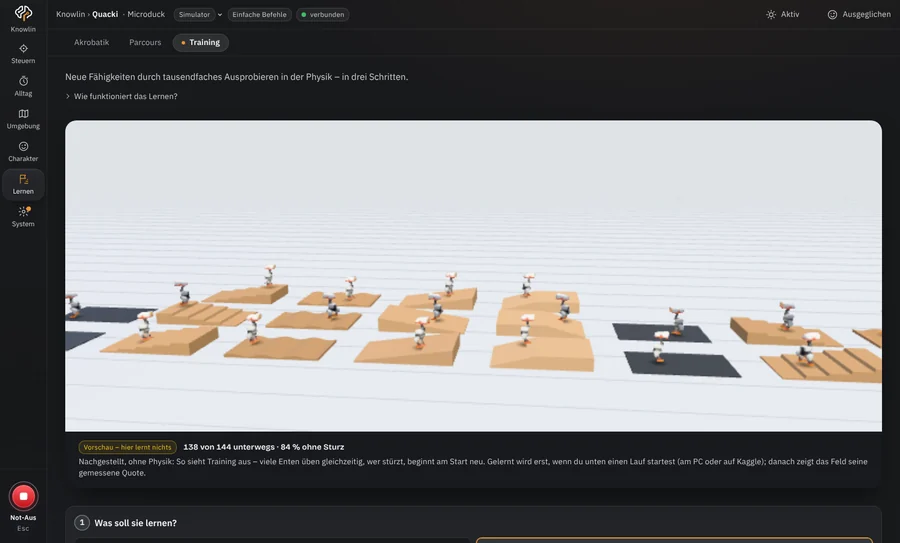
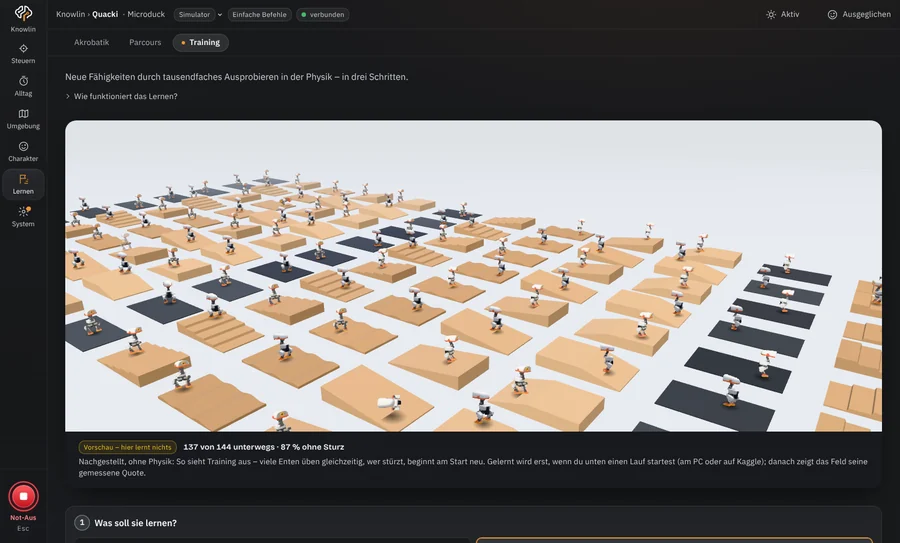
Website: Bild bei „Lernen“ mit festem Blick schräg übers volle Trainingsfeld
Claude-Session: https://claude.ai/code/session_01RXr8nab8ahXTbdJ84r3UbR

Changed region(s): [[0.0622, 0.3241, 0.9956, 0.7956], [0.0, 0.884, 0.0622, 0.9724]]

diff --git a/duckpilot/server/static/trainingsfeld.js b/duckpilot/server/static/trainingsfeld.js
@@ -312,8 +312,8 @@ export function trainingsfeld(canvas) {
   let sichtbarAnzahl = ANZAHL;
   // Sparen auf schwacher Grafik: Bilder dauern im Mittel länger als 45 ms → weniger Bildpunkte, dann nur die vordere
   // Hälfte, dann ein Viertel der Enten (die Zahlen zählen weiter alle)
-  function sparen() {
-    stufe++;
+  function sparen(neu = stufe + 1) {
+    stufe = neu;
     sichtbarAnzahl = stufe >= 3 ? Math.ceil(ANZAHL / 4) : stufe >= 2 ? Math.ceil(ANZAHL / 2) : ANZAHL;
     for (const m of [ente && ente.netz, schatten]) if (m) m.count = sichtbarAnzahl;
     const felder = halle.userData.felder;                // kein leeres Übungsfeld: nur so viele Felder wie Enten
@@ -401,6 +401,13 @@ export function trainingsfeld(canvas) {
   // Auftakt wie im Video von NVIDIA zur Microduck: erst nah an einer Ente, dann zieht die Kamera auf das ganze Feld auf
   const blick = new THREE.Vector3(), ziel = new THREE.Vector3();
   function kameraStellen(zeit) {
+    // feste Kamera für Website und Doku (seit 0.38.56, „nimm lieber das Bild bei Lernen“): "x,y,z,zielX,zielY,zielZ"
+    const fest = (canvas.dataset.blick || '').split(',').map(Number);
+    if (fest.length === 6 && fest.every(Number.isFinite)) {
+      kamera.position.set(fest[0], fest[1], fest[2]);
+      kamera.lookAt(fest[3], fest[4], fest[5]);
+      return;
+    }
     const t = ruhig ? 0 : zeit / 1000;
     const a = 0.42 + Math.sin(t / 14) * 0.22;
     const schmal = kamera.aspect < 1.4;
@@ -481,6 +488,11 @@ export function trainingsfeld(canvas) {
   }
 
   canvas.feldInfo = () => ({ ...renderer.info.render, anzahl: ANZAHL, bilder: ente ? 1 : 0 });   // für Prüfungen
+  // Website-Bilder (seit 0.38.56): alle Enten, feste Kamera aus data-blick, jetzt zeichnen – headless steht die Schleife
+  canvas.feldZeichnen = () => {
+    if (stufe) { sparen(0); canvas.dataset.sparen = 'nie'; }
+    groesse(); kameraStellen(performance.now() - t0); renderer.render(scene, kamera);
+  };
   let modellSchluessel = '';
   canvas.dataset.figur = 'einfach';                        // für den Abnahmetest: welche Figur steht im Feld
   return {

diff --git a/tools/website_bilder.py b/tools/website_bilder.py
@@ -278,6 +278,9 @@ def szene_akrobatik(page, base, sprache):
     page.wait_for_timeout(3000)
 
 
+TRAINING_BLICK = "3.6,2.6,5.2,-0.6,0,-0.6"    # Kamera x,y,z und Blickziel x,y,z im Trainingsfeld (Meter)
+
+
 def szene_training(page, base, sprache):
     A.einstellen(page, {"modul": "duckpilot", "sprache": sprache})
     A.oeffnen(page, base)
@@ -293,6 +296,11 @@ def szene_training(page, base, sprache):
     page.wait_for_function("() => /^original/.test(document.getElementById('tr-feld-canvas')?.dataset.figur || '')",
                            timeout=420000)
     page.wait_for_timeout(8000)
+    # seit 0.38.56 („nimm mal lieber das Bild bei Lernen“): fester Blick schräg von oben übers volle Feld – Rampen vorn,
+    # Matten rechts – statt des Moments der gleitenden Keynote-Kamera, die headless weit draußen und flach stand
+    page.evaluate(f"() => {{ const c = document.getElementById('tr-feld-canvas'); c.dataset.blick = '{TRAINING_BLICK}';"
+                  " c.feldZeichnen(); }")
+    page.wait_for_timeout(1500)
 
 
 SZENEN = {"start": szene_start, "cockpit": szene_cockpit, "reachy": szene_reachy, "odi": szene_odi, "ari": szene_ari,

diff --git a/tests/test_website_koerper.py b/tests/test_website_koerper.py
@@ -29,3 +29,11 @@ def test_vorschaubild_nennt_alle_fertigen_koerper():
     fertig = [m for m in MODULE if m[3] == "fertig" and m[0] in KOERPER_MODUL]
     namen = _vorschau().koerper()
     assert len(namen) == len(fertig) and "SO-101" in namen and "Mentor" not in namen
+
+
+def test_lernen_mit_festem_blick():
+    """„Nimm mal lieber das Bild bei Lernen“ (13.11.): Website-Bild des Trainingsfelds mit festem Blick und vollem Feld."""
+    js = (ROOT / "duckpilot" / "server" / "static" / "trainingsfeld.js").read_text(encoding="utf-8")
+    assert "canvas.dataset.blick" in js and "canvas.feldZeichnen = () =>" in js and "sparen(0)" in js
+    werkzeug = (ROOT / "tools" / "website_bilder.py").read_text(encoding="utf-8")
+    assert 'TRAINING_BLICK = "' in werkzeug and "c.feldZeichnen()" in werkzeug

diff --git a/CHANGELOG.md b/CHANGELOG.md
@@ -29,6 +29,8 @@ Abschnitte je Version: **Neu**, **Geändert**, **Behoben**, **Sicherheit**, **Ni
   beim Teilen und README-Banner zeigten noch drei Körper ohne Ari und die alte Startseite, Bildtexte sprachen von
   „drei Verkörperungen“. Alle Aufnahmen der Website und der README neu; Banner und Vorschaubild entstehen jetzt aus
   der Startseite und der Liste der Körper (`tools/vorschau_bilder.py`), ein Test hält die Texte auf dem Stand.
+  Das Bild bei „Lernen“ zeigt das Trainingsfeld jetzt schräg von oben und voll besetzt (Wunsch des Maintainers) statt
+  eines zufälligen Moments der gleitenden Kamera weit draußen.
 
 ### Geändert
 - **Knowlin spricht für Ari** (Entscheidung des Maintainers: „Knowlin kann für ihn sprechen“): Ein Körper ohne
